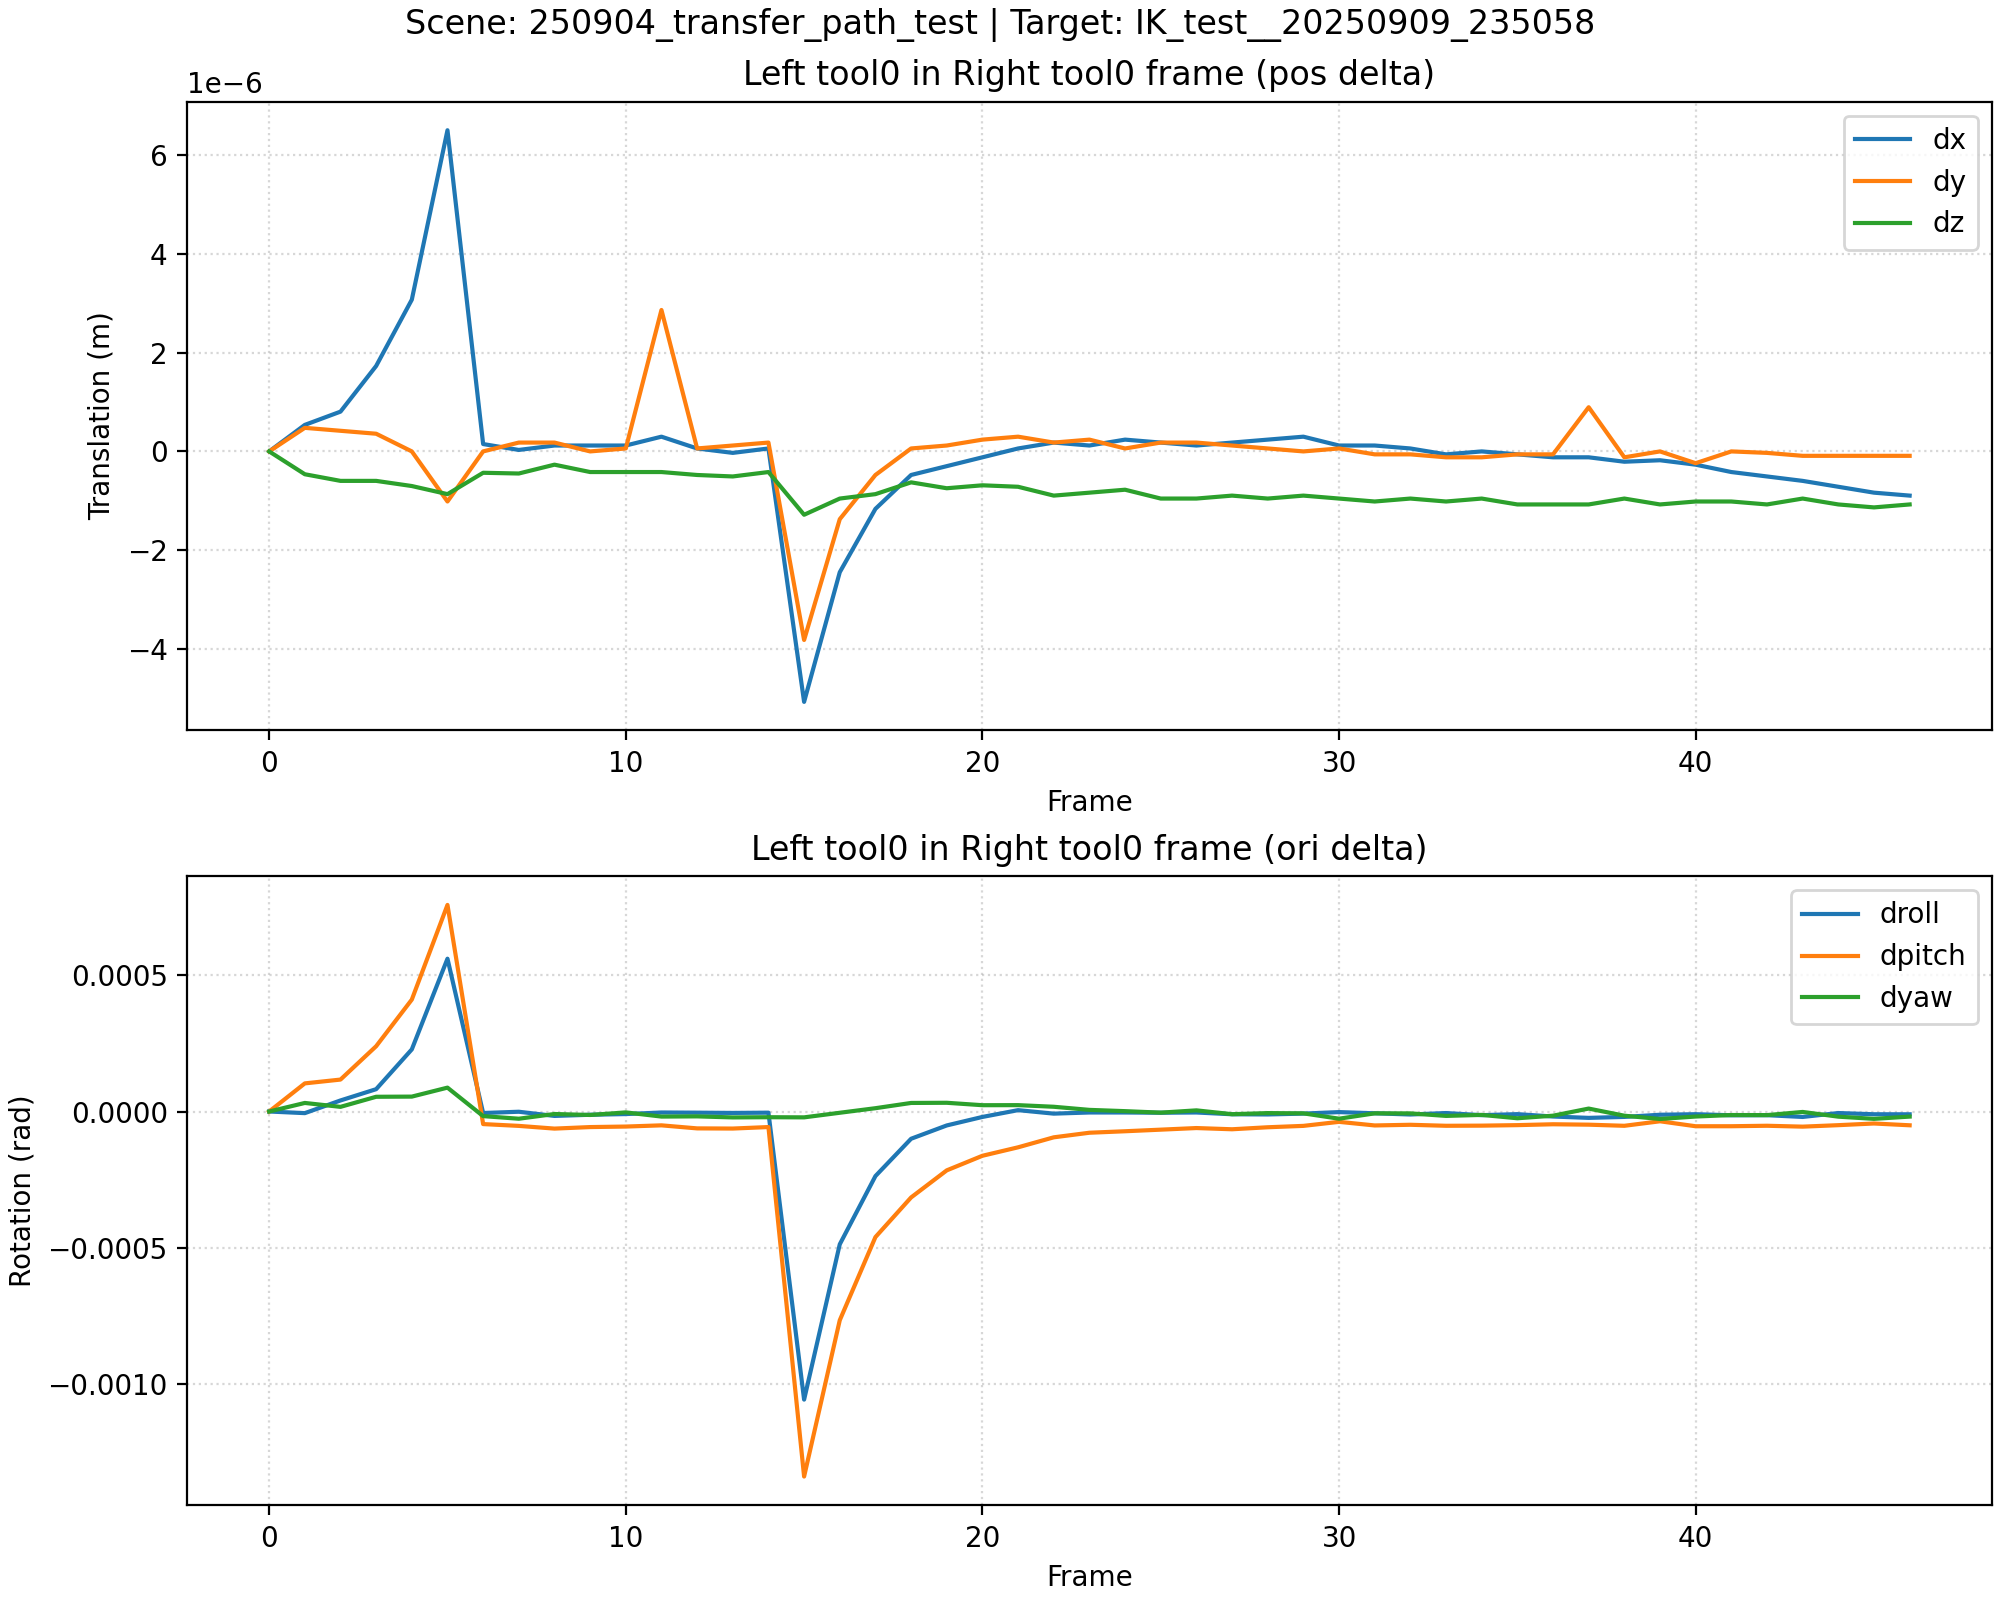
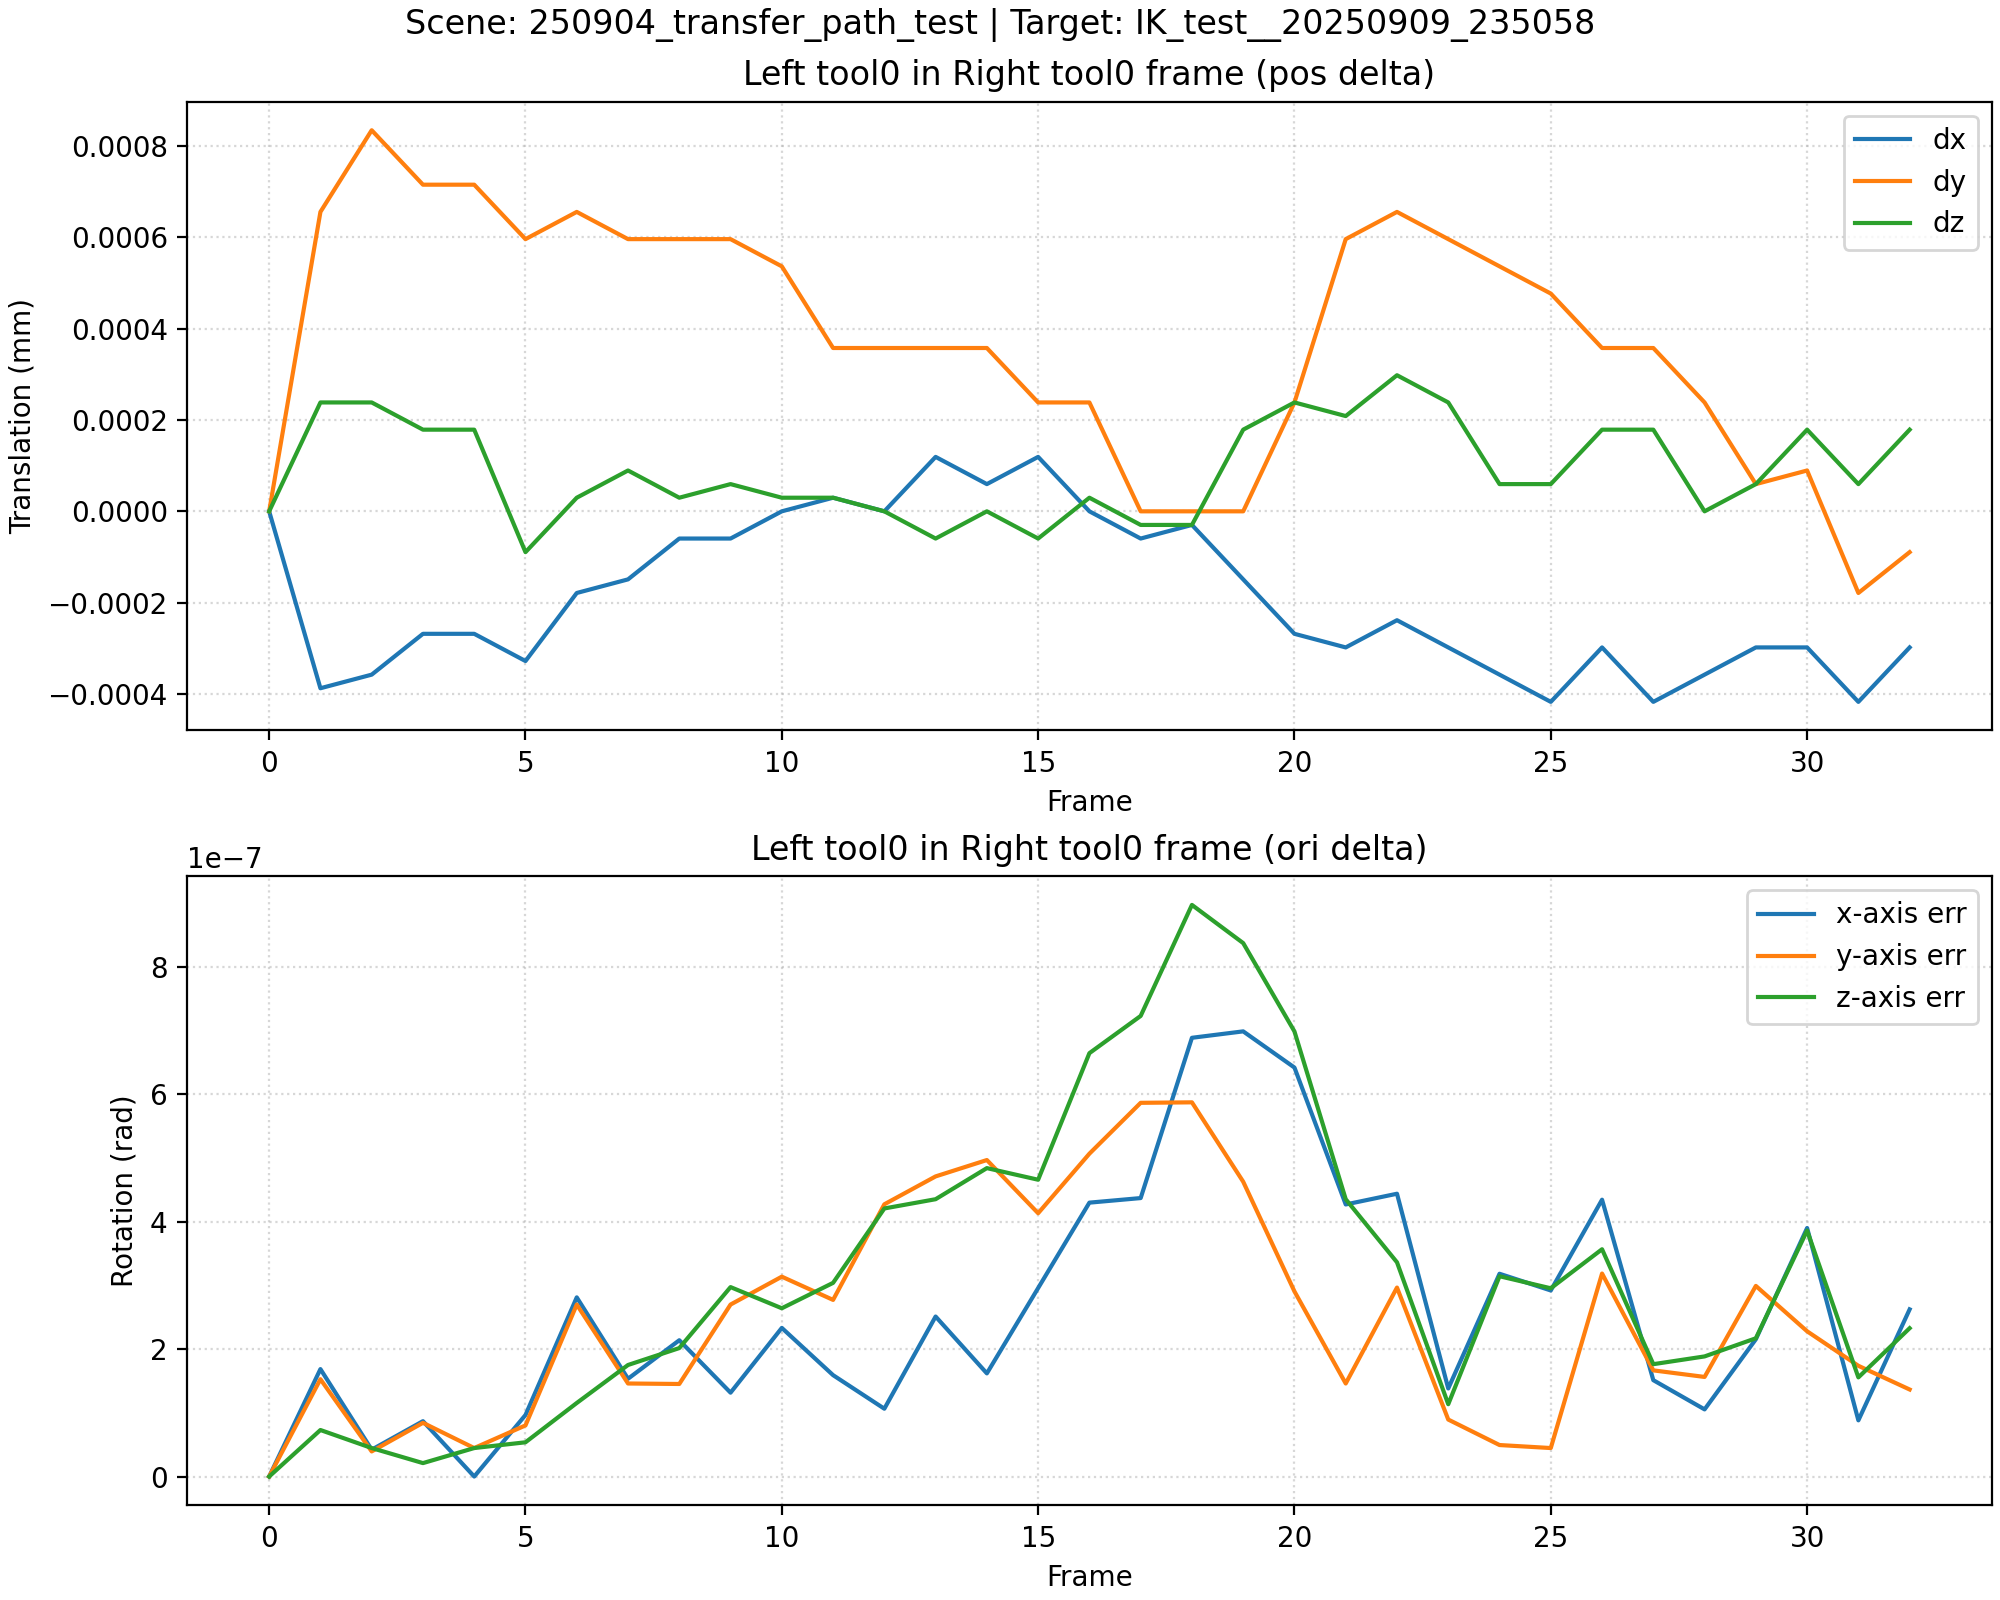
switch to cart-based planner

diff --git a/scripts/motion_planner/trajectory_dual_constrained_solver.py b/scripts/motion_planner/trajectory_dual_constrained_solver.py
@@ -20,6 +20,7 @@ from model.target_parse import TargetParser
 from robot.dual_arm_projection import DualArmProjection
 from robot.robot_setup import RobotSetup
 from utils.params import DATA_DIR, PROJECT_DIR
+from utils.util import normalize_angles, angles_distance
 
 # DEFAULT_RESOLUTION = math.radians(1.0)
 DEFAULT_RESOLUTION = 0.01
@@ -71,12 +72,12 @@ class TrajectoryDualConstrainedSolver:
         self.start_projected_confs = None
         self.target_projected_confs = None
 
-    def plan(self, start_conf: np.ndarray, target_conf: np.ndarray, max_time: int = 600, max_projection_attempts: int = 100, visualization: bool = True) -> Optional[List[np.ndarray]]:
+    def plan(self, start_confs: np.ndarray, target_conf: np.ndarray, max_time: int = 600, max_projection_attempts: int = 100, visualization: bool = True) -> Optional[List[np.ndarray]]:
         """
-        Main planning method that finds a trajectory from start to target configuration.
+        Main planning method that finds a trajectory from any of the given start configurations to the target configuration.
 
         Args:
-            start_conf: Starting joint configuration (12 DOF)
+            start_confs: Candidate starting joint configurations, shape (N, 12) or (12,)
             target_conf: Target joint configuration (12 DOF)
             max_time: Maximum planning time in seconds
             max_projection_attempts: Maximum attempts for constraint projection
@@ -86,40 +87,62 @@ class TrajectoryDualConstrainedSolver:
             List of joint configurations representing the path, or None if no path found
         """
         # Normalize configurations to [-pi, pi]
-        start_conf = self._normalize_angles(start_conf)
+        start_confs = np.array(start_confs)
+        if start_confs.ndim == 1:
+            start_confs = start_confs.reshape(1, -1)
+        start_confs = np.array([self._normalize_angles(sc) for sc in start_confs])
         target_conf = self._normalize_angles(target_conf)
 
-        print(f"Start configuration: {list(start_conf)}")
-        print(f"Target configuration: {list(target_conf)}")
-
-        # Setup constraint projection
+        # Setup constraint projection and collision checking (independent of specific start)
         self._setup_constraint_projection(target_conf)
-
-        # Setup collision checking
         self._setup_collision_checking()
 
-        # Generate projected configurations
-        self._generate_projected_configurations(start_conf, target_conf, max_projection_attempts)
-
-        # Setup planning functions
+        # Setup planning helper functions
         sample_fn = self._get_sample_fn()
         extend_fn_continuous = self._get_extend_fn(check_continuous=True)
         extend_fn_direct = self._get_extend_fn(check_continuous=False)
         distance_fn = self._get_distance_fn()
-        self.robot_setup.set_joint_positions(self.robot_setup.arm_joints, start_conf)
-        start = pp.get_link_pose(self.robot_setup.robot, self.robot_setup.tool_link_right)
+
+        # 1) For each start_conf, generate projections and try direct path
+        for idx, start_conf in enumerate(start_confs):
+            print(f"Attempting direct path check for start_conf #{idx}")
+            self._generate_projected_configurations(start_conf, target_conf, max_projection_attempts)
+            path = self._try_direct_path(extend_fn_direct)
+            if path is not None:
+                # Post-process and optional visualize then return immediately
+                path = self._post_process_path(path)
+                if visualization:
+                    self._visualize_path(path)
+                print(f"Path found with {len(path)} waypoints (direct)")
+                return path
+
+        # 2) If no direct path exists for any start, pick the closest start to target by joint-space distance
+        print("No direct path for any start_conf. Selecting closest start_conf by angles_distance...")
+        distances = [angles_distance(sc, target_conf) for sc in start_confs]
+        best_idx = int(np.argmin(distances)) if len(distances) > 0 else 0
+        chosen_start_conf = start_confs[best_idx]
+        print(f"Chosen start_conf index: {best_idx}, distance: {distances[best_idx] if len(distances) > 0 else 'N/A'}")
+
+        # Draw function based on chosen start and target
+        self.robot_setup.set_joint_positions(self.robot_setup.arm_joints, chosen_start_conf)
+        start_pose = pp.get_link_pose(self.robot_setup.robot, self.robot_setup.tool_link_right)
         self.robot_setup.set_joint_positions(self.robot_setup.arm_joints, target_conf)
-        target = pp.get_link_pose(self.robot_setup.robot, self.robot_setup.tool_link_right)
-        draw_fn = self._get_draw_fn(start, target) if visualization else None
+        target_pose = pp.get_link_pose(self.robot_setup.robot, self.robot_setup.tool_link_right)
+        draw_fn = self._get_draw_fn(start_pose, target_pose) if visualization else None
 
-        # Try direct path first
-        path = self._try_direct_path(extend_fn_direct)
-
-        if path is None:
-            print("No direct path found. Using RRT-based planning...")
-            path = self.robot_setup.plan_manipulator_path(
-                start_conf, target_conf, attachments=[], obstacles=self.robot_setup.obstacles, sample_fn=sample_fn, collision_fn=self.invalid_fn, extend_fn=extend_fn_continuous, max_time=max_time, draw_fn=draw_fn, distance_fn=distance_fn
-            )
+        print("Using RRT-based planning from chosen start_conf...")
+        path = self.robot_setup.plan_manipulator_path(
+            chosen_start_conf,
+            target_conf,
+            attachments=[],
+            obstacles=self.robot_setup.obstacles,
+            sample_fn=sample_fn,
+            collision_fn=self.invalid_fn,
+            extend_fn=extend_fn_continuous,
+            max_time=max_time,
+            draw_fn=draw_fn,
+            distance_fn=distance_fn,
+        )
 
         if path is not None:
             path = self._post_process_path(path)
@@ -584,8 +607,8 @@ class TrajectoryDualConstrainedSolver:
         bar_pose = pp.multiply(base_pose, delta_pose)
 
         # Get IK solution handles for both arms
-        left_start_ik_handle = self.robot_setup.get_left_arm_ik_solution
-        right_start_ik_handle = self.robot_setup.get_right_arm_ik_solution
+        left_start_ik_handle = self.robot_setup.ik_solver_left
+        right_start_ik_handle = self.robot_setup.ik_solver_right
 
         # Generate valid configurations using dual-arm constraint projection
         start_confs = projector.create_valid_confs(
@@ -593,23 +616,19 @@ class TrajectoryDualConstrainedSolver:
         )
 
         # Select first valid configuration or exit if none found
-        if start_confs is not None:
-            start_conf = start_confs[0]
-        else:
+        if start_confs is None:
             print(f"✗ Failed to generate start configuration after {max_attempts} attempts")
             print("Consider adjusting delta_pose_point, delta_pose_euler, or increasing max_attempts")
             exit()
 
         # Normalize configuration to [-π, π] range
-        start_conf = np.array(start_conf)
-        start_conf = (start_conf + np.pi) % (2 * np.pi) - np.pi
-        print(f"Start configuration: {list(start_conf)}")
+        start_confs = normalize_angles(start_confs)
 
         # Set robot to computed configuration
-        self.robot_setup.set_joint_positions(self.robot_setup.arm_joints, start_conf)
+        # self.robot_setup.set_joint_positions(self.robot_setup.arm_joints, start_confs[0])
 
         print("✓ Start configuration generated successfully")
-        return start_conf
+        return start_confs
 
 
 def main():
@@ -620,14 +639,18 @@ def main():
     design_study_path = os.path.join(DATA_DIR, "husky_assembly_design_study")
     
     # ------------------------------
-    design_case = "250904_transfer_path_test"
+    # design_case = "250904_transfer_path_test"
     # target_name = "IK_test__20250909_235058"
-    target_name = "IK_test__20250905_101010"
-    state_name = "IK_test__GraspTargets"
+    # # target_name = "IK_test__20250905_101010"
+    # state_name = "IK_test__GraspTargets"
+    # ------------------------------ failed
+    # design_case = "250707_RobotX_box_demo"
+    # target_name = "robotx_box_A13-S_end"
+    # state_name = "robotx_box_A13-S_end_GraspTargets"
     # ------------------------------
     design_case = "250707_RobotX_box_demo"
-    target_name = "robotx_box_A13-S_end"
-    state_name = "robotx_box_A13-S_end_GraspTargets"
+    target_name = "robotx_box_A6-S4_end"
+    state_name = "robotx_box_A6-S4_end_GraspTargets"
     
     target_cell_state_path = os.path.join(design_study_path, design_case, "RobotCellStates", f"{target_name}_RobotCellState.json")
 
@@ -654,7 +677,8 @@ def main():
     # ------------------------------------------------------------------
     # Get Start Configuration
     # ------------------------------------------------------------------
-    start_conf = solver.generate_start_configuration(projector)
+    start_confs = solver.generate_start_configuration(projector, max_attempts=20)
+    print(f"Start configurations length: {len(start_confs)}")
 
     # ------------------------------------------------------------------
     # Plan Trajectory
@@ -667,10 +691,10 @@ def main():
     pr.enable()
     with pp.LockRenderer():
         path = solver.plan(
-            start_conf=start_conf,
+            start_confs=start_confs,
             target_conf=target_conf,
             max_time=36000,  # Maximum planning time in seconds, conservatively set to 10 hours
-            max_projection_attempts=100,  # Maximum attempts for constraint projection
+            max_projection_attempts=20,  # Maximum attempts for constraint projection
             visualization=False,  # Enable visualization
         )
     end_time = time.time()

diff --git a/scripts/test/traj_plot.py b/scripts/test/traj_plot.py
@@ -195,11 +195,11 @@ def _plot_and_save(pos_d: np.ndarray, rot_err_d: np.ndarray, out_path: str, titl
 
     t = np.arange(pos_d.shape[0])
     # Position deltas
-    axes[0].plot(t, pos_d[:, 0], label="dx")
-    axes[0].plot(t, pos_d[:, 1], label="dy")
-    axes[0].plot(t, pos_d[:, 2], label="dz")
+    axes[0].plot(t, pos_d[:, 0] * 1000, label="dx")
+    axes[0].plot(t, pos_d[:, 1] * 1000, label="dy")
+    axes[0].plot(t, pos_d[:, 2] * 1000, label="dz")
     axes[0].set_xlabel("Frame")
-    axes[0].set_ylabel("Translation (m)")
+    axes[0].set_ylabel("Translation (mm)")
     axes[0].set_title(f"Left tool0 in Right tool0 frame (pos delta)")
     axes[0].grid(True, linestyle=":", alpha=0.5)
     axes[0].legend()
@@ -307,11 +307,11 @@ def _interactive_plot_with_normalized_slider(
 
     t = np.arange(num_frames)
     # Position deltas
-    axes[0].plot(t, pos_d[:, 0], label="dx")
-    axes[0].plot(t, pos_d[:, 1], label="dy")
-    axes[0].plot(t, pos_d[:, 2], label="dz")
+    axes[0].plot(t, pos_d[:, 0] * 1000, label="dx")
+    axes[0].plot(t, pos_d[:, 1] * 1000, label="dy")
+    axes[0].plot(t, pos_d[:, 2] * 1000, label="dz")
     axes[0].set_xlabel("Frame")
-    axes[0].set_ylabel("Translation (m)")
+    axes[0].set_ylabel("Translation (mm)")
     axes[0].set_title("Left tool0 in Right tool0 frame (pos delta)")
     axes[0].grid(True, linestyle=":", alpha=0.5)
     axes[0].legend()

diff --git a/scripts/robot/robot_setup.py b/scripts/robot/robot_setup.py
@@ -311,15 +311,10 @@ class RobotSetup:
         if self.robot_type != "husky_dual":
             pass
         else:
-            # ik_solver_relative_left_raw = tracikpy.TracIKSolver(robot_urdf, self._onboard_link_left, self._tool0_name_left).ik
-            # ik_solver_relative_right_raw = tracikpy.TracIKSolver(robot_urdf, self._onboard_link_right, self._tool0_name_right).ik
-            # ik_solver_relative_left = partial(ik_solver_relative_left_raw, bx = 1e-6, by = 1e-6, bz = 1e-6, brx = 1e-6, bry = 1e-6, brz = 1e-6)
-            # ik_solver_relative_right = partial(ik_solver_relative_right_raw, bx = 1e-6, by = 1e-6, bz = 1e-6, brx = 1e-6, bry = 1e-6, brz = 1e-6)
-
             def pyb_ik_solver_left(ee_pose, q_init=None) -> np.ndarray:
                 if q_init is not None:
                     self.set_left_arm_joint_positions(q_init)
-                res = np.array(pybullet.calculateInverseKinematics(self.robot, pp.link_from_name(self.robot, self._tool0_name_left), ee_pose[0], ee_pose[1], maxNumIterations=100, residualThreshold=1e-6))[:6]
+                res = np.array(pybullet.calculateInverseKinematics(self.robot, pp.link_from_name(self.robot, self._tool0_name_left), ee_pose[0], ee_pose[1], maxNumIterations=1000, residualThreshold=1e-6))[:6]
                 self.set_left_arm_joint_positions(res)
                 pose_res = pp.get_link_pose(self.robot, pp.link_from_name(self.robot, self._tool0_name_left))
                 pose_err = calculate_pose_error(ee_pose, pose_res)
@@ -330,7 +325,7 @@ class RobotSetup:
             def pyb_ik_solver_right(ee_pose, q_init=None) -> np.ndarray:
                 if q_init is not None:
                     self.set_right_arm_joint_positions(q_init)
-                res = np.array(pybullet.calculateInverseKinematics(self.robot, pp.link_from_name(self.robot, self._tool0_name_right), ee_pose[0], ee_pose[1], maxNumIterations=100, residualThreshold=1e-6))[6:]
+                res = np.array(pybullet.calculateInverseKinematics(self.robot, pp.link_from_name(self.robot, self._tool0_name_right), ee_pose[0], ee_pose[1], maxNumIterations=1000, residualThreshold=1e-6))[6:]
                 self.set_right_arm_joint_positions(res)
                 pose_res = pp.get_link_pose(self.robot, pp.link_from_name(self.robot, self._tool0_name_right))
                 pose_err = calculate_pose_error(ee_pose, pose_res)

diff --git a/scripts/robot/dual_arm_projection.py b/scripts/robot/dual_arm_projection.py
@@ -77,7 +77,7 @@ class DualArmProjection:
 
         world_from_left = pp.get_link_pose(self.robot_setup.robot, self.robot_setup.tool_link_left)
         world_from_right = pp.multiply(world_from_left, pp.invert(self.desired_right_from_left))
-        q_right_new = self.robot_setup.get_right_arm_ik_solution(world_from_right, q_right)
+        q_right_new = self.robot_setup.ik_solver_right(world_from_right, q_right)
 
         if q_right_new is None:
             return None
@@ -170,10 +170,10 @@ class DualArmProjection:
         Create valid configurations by projecting multiple states to satisfy the relative constraint.
         """
         projected_confs = []
-        for _ in range(max_attempts):
-            print(f"Creating valid configurations... {_}/{max_attempts}")
+        delta_angles = np.linspace(-delta, delta, max_attempts)
+        for attempt_idx, delta_angle in enumerate(delta_angles):
+            print(f"Creating valid configurations... {attempt_idx+1}/{max_attempts}")
             right_ik_init_guess = np.random.uniform(-np.pi, np.pi, 6)
-            delta_angle = np.random.uniform(-delta, delta)
             delta_pose = pp.Pose(point = [0.0, 0.0, 0.0], euler = [0, 0, delta_angle])
             new_bar_pose = pp.multiply(bar_pose, delta_pose)
             right_tool0_pose = pp.multiply(new_bar_pose, bar_from_right)

diff --git a/scripts/test/dual_projection_acc_test.py b/scripts/test/dual_projection_acc_test.py
@@ -132,8 +132,9 @@ def main():
         if projected is None or projected.size == 0:
             continue
         projected_confs.append(projected[0])
-        if len(projected_confs) % 50 == 0:
-            print(f"Collected {len(projected_confs)} / {args.count}")
+        # if len(projected_confs) % 50 == 0:
+        #     print(f"Collected {len(projected_confs)} / {args.count}")
+        print(f"Collected {len(projected_confs)} / {args.count}")
 
     # Build trajectory: start frame is the target configuration
     start_conf = np.array(target_conf, dtype=float)
@@ -147,7 +148,7 @@ def main():
     if args.out is None:
         out_dir = os.path.join(PROJECT_DIR, "data", "plots")
         os.makedirs(out_dir, exist_ok=True)
-        out_path = os.path.join(out_dir, f"{args.target_name}_left_in_right_tool0_deltas.png")
+        out_path = os.path.join(out_dir, f"{args.target_name}_ik_random_test.png")
     else:
         out_path = args.out
 